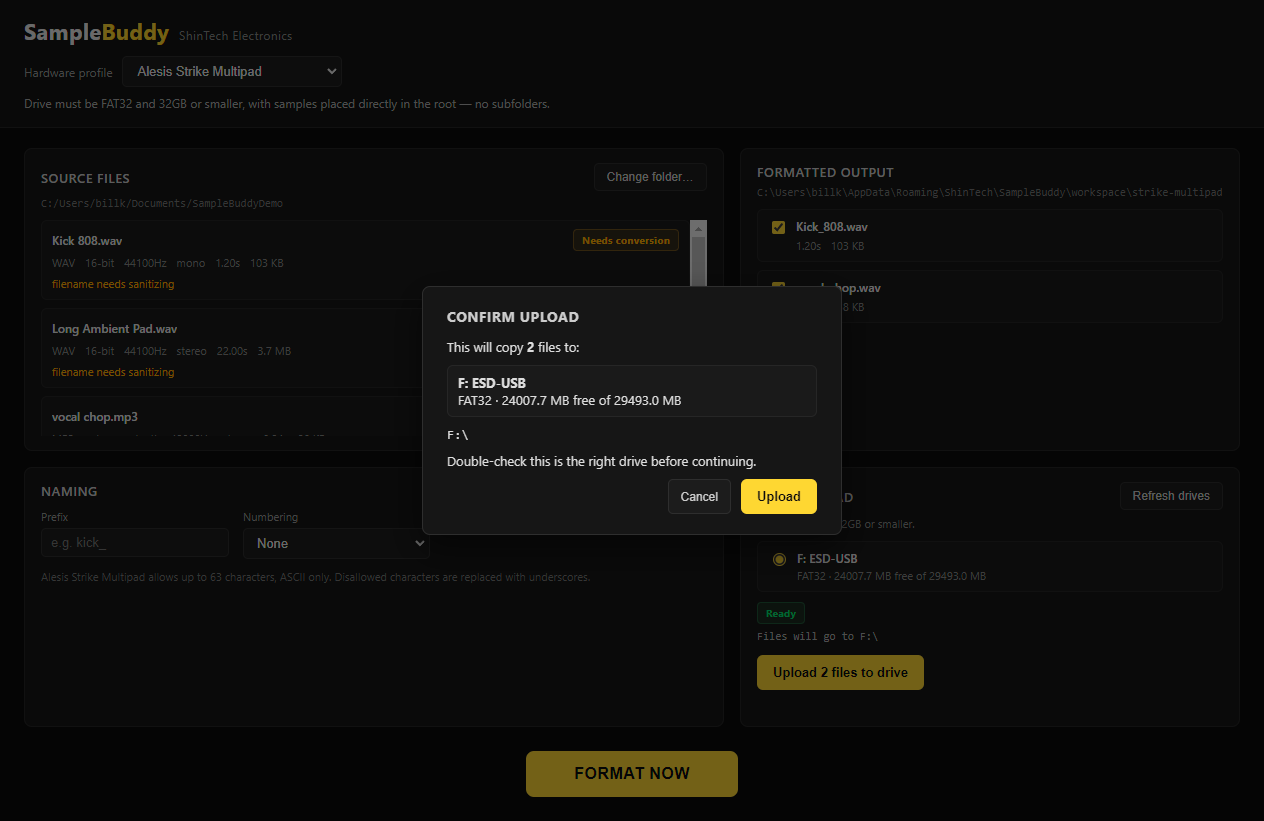
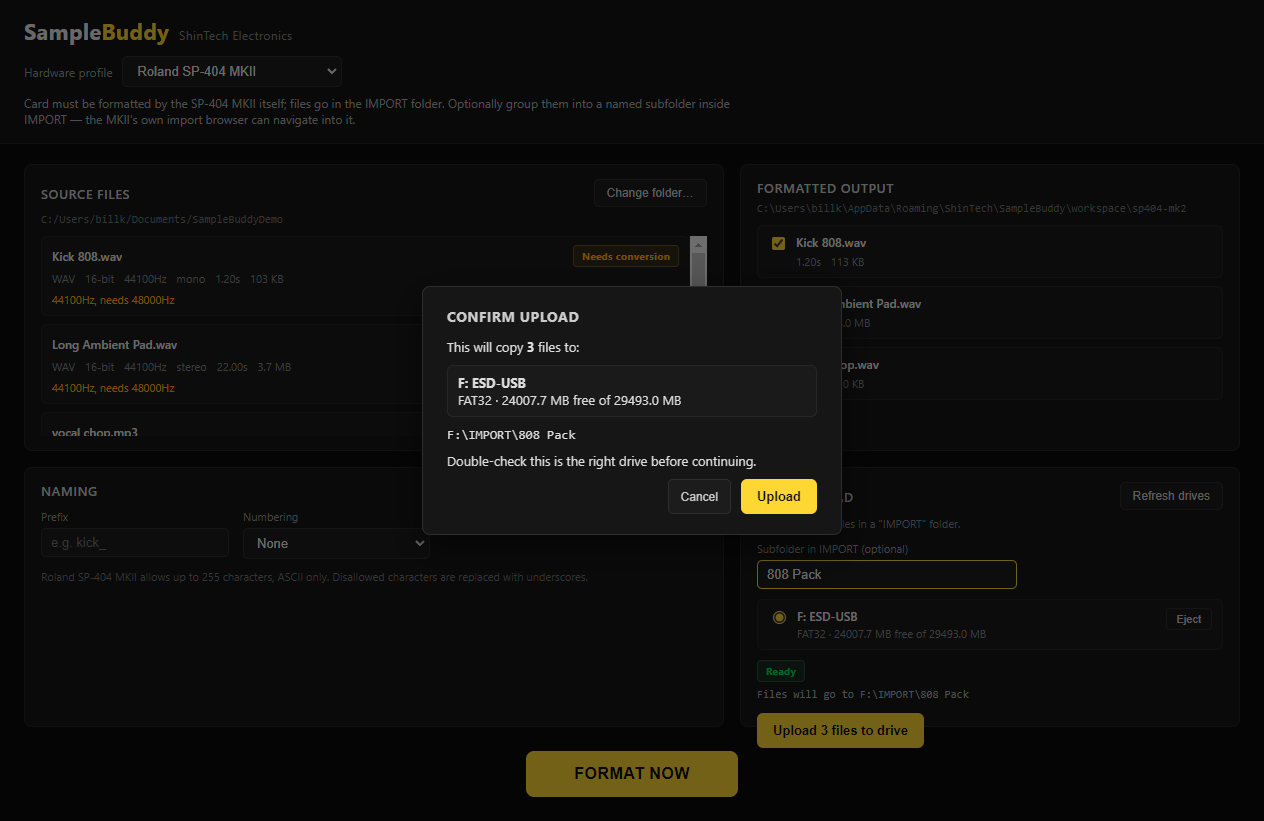
Phase 4: safe drive eject, plus README refresh with live screenshots
Adds a per-drive Eject button using Shell.Application's "Eject" verb (the
same code path Explorer's own right-click Eject uses) rather than
mountvol /P, which forcibly closes other processes' open handles before
dismounting — the opposite of safe if something else is reading from the
drive.

Also fixes a drive-detection bug found while testing: a drive that's been
ejected but not physically unplugged still reports its DriveType/letter
via Get-Volume, just with an empty filesystem ("no medium found"). The
detection query now requires a non-empty filesystem so an ejected drive
correctly disappears from the list instead of still showing as connected.

README screenshots updated to reflect Phase 3 (subfolder grouping) and
Phase 4 (Eject button) as they actually render.

diff --git a/src/renderer/src/components/DrivePanel.tsx b/src/renderer/src/components/DrivePanel.tsx
@@ -19,6 +19,9 @@ interface DrivePanelProps {
   onUploadClick: () => void
   group: string
   onGroupChange: (group: string) => void
+  ejectingDriveLetter: string | null
+  ejectMessage: { driveLetter: string; message: string } | null
+  onEjectClick: (driveLetter: string) => void
 }
 
 export default function DrivePanel({
@@ -38,7 +41,10 @@ export default function DrivePanel({
   uploadedFilenames,
   onUploadClick,
   group,
-  onGroupChange
+  onGroupChange,
+  ejectingDriveLetter,
+  ejectMessage,
+  onEjectClick
 }: DrivePanelProps): JSX.Element {
   const isStagingFolder = profile?.transferMethod === 'staging-folder'
 
@@ -96,25 +102,36 @@ export default function DrivePanel({
       {drives.length > 0 && (
         <div className="drive-list">
           {drives.map((drive) => (
-            <label key={drive.driveLetter} className="drive-row">
-              <input
-                type="radio"
-                name="drive-select"
-                checked={selectedDriveLetter === drive.driveLetter}
-                onChange={() => onSelectDrive(drive.driveLetter)}
-              />
-              <div className="drive-row-body">
-                <span className="drive-row-title">
-                  {drive.driveLetter}: {drive.label || '(no label)'}
-                </span>
-                <span className="drive-row-specs">
-                  {drive.filesystem} · {formatBytes(drive.freeBytes)} free of {formatBytes(drive.totalBytes)}
-                </span>
-              </div>
-            </label>
+            <div key={drive.driveLetter} className="drive-row">
+              <label className="drive-row-select">
+                <input
+                  type="radio"
+                  name="drive-select"
+                  checked={selectedDriveLetter === drive.driveLetter}
+                  onChange={() => onSelectDrive(drive.driveLetter)}
+                />
+                <div className="drive-row-body">
+                  <span className="drive-row-title">
+                    {drive.driveLetter}: {drive.label || '(no label)'}
+                  </span>
+                  <span className="drive-row-specs">
+                    {drive.filesystem} · {formatBytes(drive.freeBytes)} free of {formatBytes(drive.totalBytes)}
+                  </span>
+                </div>
+              </label>
+              <button
+                className="btn-eject"
+                disabled={ejectingDriveLetter === drive.driveLetter}
+                onClick={() => onEjectClick(drive.driveLetter)}
+              >
+                {ejectingDriveLetter === drive.driveLetter ? 'Ejecting…' : 'Eject'}
+              </button>
+            </div>
           ))}
         </div>
       )}
+
+      {ejectMessage && <p className="drive-eject-message">{ejectMessage.message}</p>}
 
       {selectedDriveLetter && checkingCompliance && <p className="panel-empty">Checking drive…</p>}
 

diff --git a/src/renderer/src/styles.css b/src/renderer/src/styles.css
@@ -383,18 +383,54 @@ body,
 .drive-row {
   display: flex;
   align-items: flex-start;
+  justify-content: space-between;
   gap: 8px;
   background: #1a1a1a;
   border: 1px solid #262626;
   border-radius: 6px;
   padding: 8px 10px;
-  cursor: pointer;
   font-size: 12px;
 }
 
-.drive-row input[type='radio'] {
+.drive-row-select {
+  display: flex;
+  align-items: flex-start;
+  gap: 8px;
+  flex: 1;
+  min-width: 0;
+  cursor: pointer;
+}
+
+.drive-row-select input[type='radio'] {
   margin-top: 3px;
   accent-color: var(--accent);
+}
+
+.btn-eject {
+  flex: 0 0 auto;
+  background: none;
+  border: 1px solid #2e2e2e;
+  border-radius: 4px;
+  color: #ccc;
+  cursor: pointer;
+  font-size: 11px;
+  padding: 4px 10px;
+}
+
+.btn-eject:hover:not(:disabled) {
+  border-color: var(--accent);
+  color: #fff;
+}
+
+.btn-eject:disabled {
+  opacity: 0.6;
+  cursor: default;
+}
+
+.drive-eject-message {
+  margin: -4px 0 10px;
+  font-size: 11px;
+  color: var(--warn);
 }
 
 .drive-row-body {

diff --git a/src/main/drive/eject.ts b/src/main/drive/eject.ts
@@ -1,0 +1,39 @@
+import { execFile } from 'child_process'
+import { promisify } from 'util'
+import { listRemovableDrives } from './detect'
+import type { DriveEjectResult } from '../../shared/ipc'
+
+const execFileAsync = promisify(execFile)
+
+// Shell.Application's "Eject" verb — the same code path Explorer's own
+// right-click "Eject" uses. Deliberately NOT mountvol /P: that command
+// forcibly closes *other processes'* open handles before dismounting,
+// which is the opposite of safe if something else is reading from the
+// drive. InvokeVerb defers to Windows' own busy/in-use protection instead.
+function ejectScript(driveLetter: string): string {
+  return `(New-Object -ComObject Shell.Application).Namespace(17).ParseName('${driveLetter}:').InvokeVerb('Eject')`
+}
+
+const DRIVE_LETTER_PATTERN = /^[A-Za-z]$/
+
+export async function ejectDrive(driveLetter: string): Promise<DriveEjectResult> {
+  if (!DRIVE_LETTER_PATTERN.test(driveLetter)) {
+    throw new Error(`Invalid drive letter: ${driveLetter}`)
+  }
+
+  await execFileAsync('powershell.exe', ['-NoProfile', '-Command', ejectScript(driveLetter)])
+
+  // InvokeVerb is fire-and-forget with no success/failure signal of its
+  // own — confirm by re-listing drives after giving Windows a moment to
+  // actually finish the dismount.
+  await new Promise((resolve) => setTimeout(resolve, 1500))
+  const stillPresent = (await listRemovableDrives()).some((d) => d.driveLetter === driveLetter)
+
+  if (stillPresent) {
+    return {
+      ejected: false,
+      message: `Windows didn't eject ${driveLetter}: — close any open files or Explorer windows on it and try again.`
+    }
+  }
+  return { ejected: true }
+}

diff --git a/src/renderer/src/App.tsx b/src/renderer/src/App.tsx
@@ -47,6 +47,8 @@ export default function App(): JSX.Element {
   const [uploadProgress, setUploadProgress] = useState<DriveUploadProgressEvent | null>(null)
   const [uploadedFilenames, setUploadedFilenames] = useState<string[] | null>(null)
   const [group, setGroup] = useState('')
+  const [ejectingDriveLetter, setEjectingDriveLetter] = useState<string | null>(null)
+  const [ejectMessage, setEjectMessage] = useState<{ driveLetter: string; message: string } | null>(null)
 
   const selectedProfile = useMemo(
     () => profiles.find((p) => p.id === selectedProfileId),
@@ -192,6 +194,21 @@ export default function App(): JSX.Element {
     setUploadedFilenames(null)
   }
 
+  async function handleEjectDrive(driveLetter: string): Promise<void> {
+    setEjectingDriveLetter(driveLetter)
+    setEjectMessage(null)
+    try {
+      const result = await window.sampleBuddy.drive.eject(driveLetter)
+      if (result.ejected) {
+        await refreshDrives()
+      } else {
+        setEjectMessage({ driveLetter, message: result.message ?? `Couldn't eject ${driveLetter}:.` })
+      }
+    } finally {
+      setEjectingDriveLetter(null)
+    }
+  }
+
   function handleUploadClick(): void {
     if (compliance?.compliant && checkedFilenames.length > 0 && !checkingCompliance) setConfirmOpen(true)
   }
@@ -258,6 +275,9 @@ export default function App(): JSX.Element {
             onUploadClick={handleUploadClick}
             group={group}
             onGroupChange={setGroup}
+            ejectingDriveLetter={ejectingDriveLetter}
+            ejectMessage={ejectMessage}
+            onEjectClick={handleEjectDrive}
           />
         </div>
 

diff --git a/src/main/drive/detect.ts b/src/main/drive/detect.ts
@@ -16,8 +16,15 @@ interface RawVolume {
 // ("Removable", "Fixed", ...) are unambiguous strings rather than numeric
 // codes, and it reports empty card-reader slots with DriveLetter: null,
 // which are filtered out below.
+//
+// $_.FileSystem is also required: a drive that's been ejected (Shell
+// "Eject" verb — see eject.ts) but not yet physically unplugged still
+// shows up here with its DriveLetter and DriveType intact, just an empty
+// FileSystem/Size/Label ("no medium found" — the same state an empty CD
+// drive reports). Without this check, an ejected-but-still-plugged-in
+// drive would keep appearing as a normal, selectable, uploadable target.
 const SCRIPT =
-  '$vols = @(Get-Volume | Where-Object { $_.DriveType -eq \'Removable\' } | ' +
+  '$vols = @(Get-Volume | Where-Object { $_.DriveType -eq \'Removable\' -and $_.FileSystem } | ' +
   'Select-Object DriveLetter, FileSystemLabel, FileSystem, Size, SizeRemaining); ' +
   'ConvertTo-Json -InputObject $vols'
 
@@ -30,7 +37,7 @@ export async function listRemovableDrives(): Promise<DriveInfo[]> {
   const rows = Array.isArray(parsed) ? parsed : [parsed]
 
   return rows
-    .filter((row): row is RawVolume & { DriveLetter: string } => Boolean(row.DriveLetter))
+    .filter((row): row is RawVolume & { DriveLetter: string } => Boolean(row.DriveLetter) && Boolean(row.FileSystem))
     .map((row) => ({
       driveLetter: row.DriveLetter,
       label: row.FileSystemLabel ?? '',

diff --git a/src/shared/ipc.ts b/src/shared/ipc.ts
@@ -13,7 +13,8 @@ export const IPC = {
   driveList: 'drive:list',
   driveCheckCompliance: 'drive:checkCompliance',
   driveUpload: 'drive:upload',
-  driveUploadProgress: 'drive:uploadProgress'
+  driveUploadProgress: 'drive:uploadProgress',
+  driveEject: 'drive:eject'
 } as const
 
 export type ComplianceStatus = 'ok' | 'needs-conversion' | 'cannot-comply'
@@ -124,4 +125,9 @@ export interface DriveUploadResult {
   destinationPath: string
   uploaded: string[]
   renamed: Record<string, string>
+}
+
+export interface DriveEjectResult {
+  ejected: boolean
+  message?: string
 }

diff --git a/src/preload/index.ts b/src/preload/index.ts
@@ -3,6 +3,7 @@ import {
   IPC,
   type DeviceProfile,
   type DriveComplianceResult,
+  type DriveEjectResult,
   type DriveInfo,
   type DriveUploadProgressEvent,
   type DriveUploadRequest,
@@ -42,7 +43,8 @@ const api = {
       const listener = (_event: Electron.IpcRendererEvent, payload: DriveUploadProgressEvent): void => cb(payload)
       ipcRenderer.on(IPC.driveUploadProgress, listener)
       return () => ipcRenderer.removeListener(IPC.driveUploadProgress, listener)
-    }
+    },
+    eject: (driveLetter: string): Promise<DriveEjectResult> => ipcRenderer.invoke(IPC.driveEject, driveLetter)
   }
 }
 

diff --git a/src/main/index.ts b/src/main/index.ts
@@ -5,6 +5,7 @@ import { scanFolderForProfile, formatNow } from './audio/pipeline'
 import { listRemovableDrives } from './drive/detect'
 import { checkDriveComplianceById } from './drive/compliance'
 import { uploadToDrive } from './drive/upload'
+import { ejectDrive } from './drive/eject'
 import { createMainWindow } from './windows'
 
 app.setName('SampleBuddy')
@@ -46,6 +47,8 @@ function registerIpc(): void {
       if (!event.sender.isDestroyed()) event.sender.send(IPC.driveUploadProgress, progress)
     })
   )
+
+  ipcMain.handle(IPC.driveEject, (_event, driveLetter: string) => ejectDrive(driveLetter))
 }
 
 if (!app.requestSingleInstanceLock()) {

diff --git a/README.md b/README.md
@@ -28,13 +28,15 @@ More devices are on the way. If your sampler has a weird, specific rule about fi
 
    ![Formatted output ready to go](docs/screenshots/formatted-output.png)
 
-4. **Send it to a drive.** For USB-drive devices, SampleBuddy detects connected removable drives, checks each one against the profile's requirements (filesystem, capacity, expected folder layout), and only lets you upload once it's actually compliant.
+4. **Send it to a drive.** For USB-drive devices, SampleBuddy detects connected removable drives, checks each one against the profile's requirements (filesystem, capacity, expected folder layout), and only lets you upload once it's actually compliant. Devices that support it (like the SP-404 MKII) can also group samples into a named subfolder inside the required import folder — the device's own import browser can navigate right into it.
 
-   ![Drive detected and confirmed compliant](docs/screenshots/drive-upload.png)
+   ![Drive detected and confirmed compliant, with an optional subfolder name](docs/screenshots/drive-upload.png)
 
 5. **Confirm before it writes anything.** Uploading to the wrong USB stick is the kind of mistake you don't get to undo, so SampleBuddy always shows you exactly what's about to happen before it happens.
 
    ![Confirmation dialog before writing to a drive](docs/screenshots/confirm-upload.png)
+
+6. **Eject when you're done.** Every detected drive gets its own Eject button, using the same safe-eject Windows itself uses — it defers to Windows' own "device is busy" protection rather than force-closing anything, so it won't step on another program still reading from the drive.
 
 For staging-folder devices like the SEQTRAK, there's no drive step — SampleBuddy just gives you a button to pop open the output folder so you can hand it to the manufacturer's own import app.
 